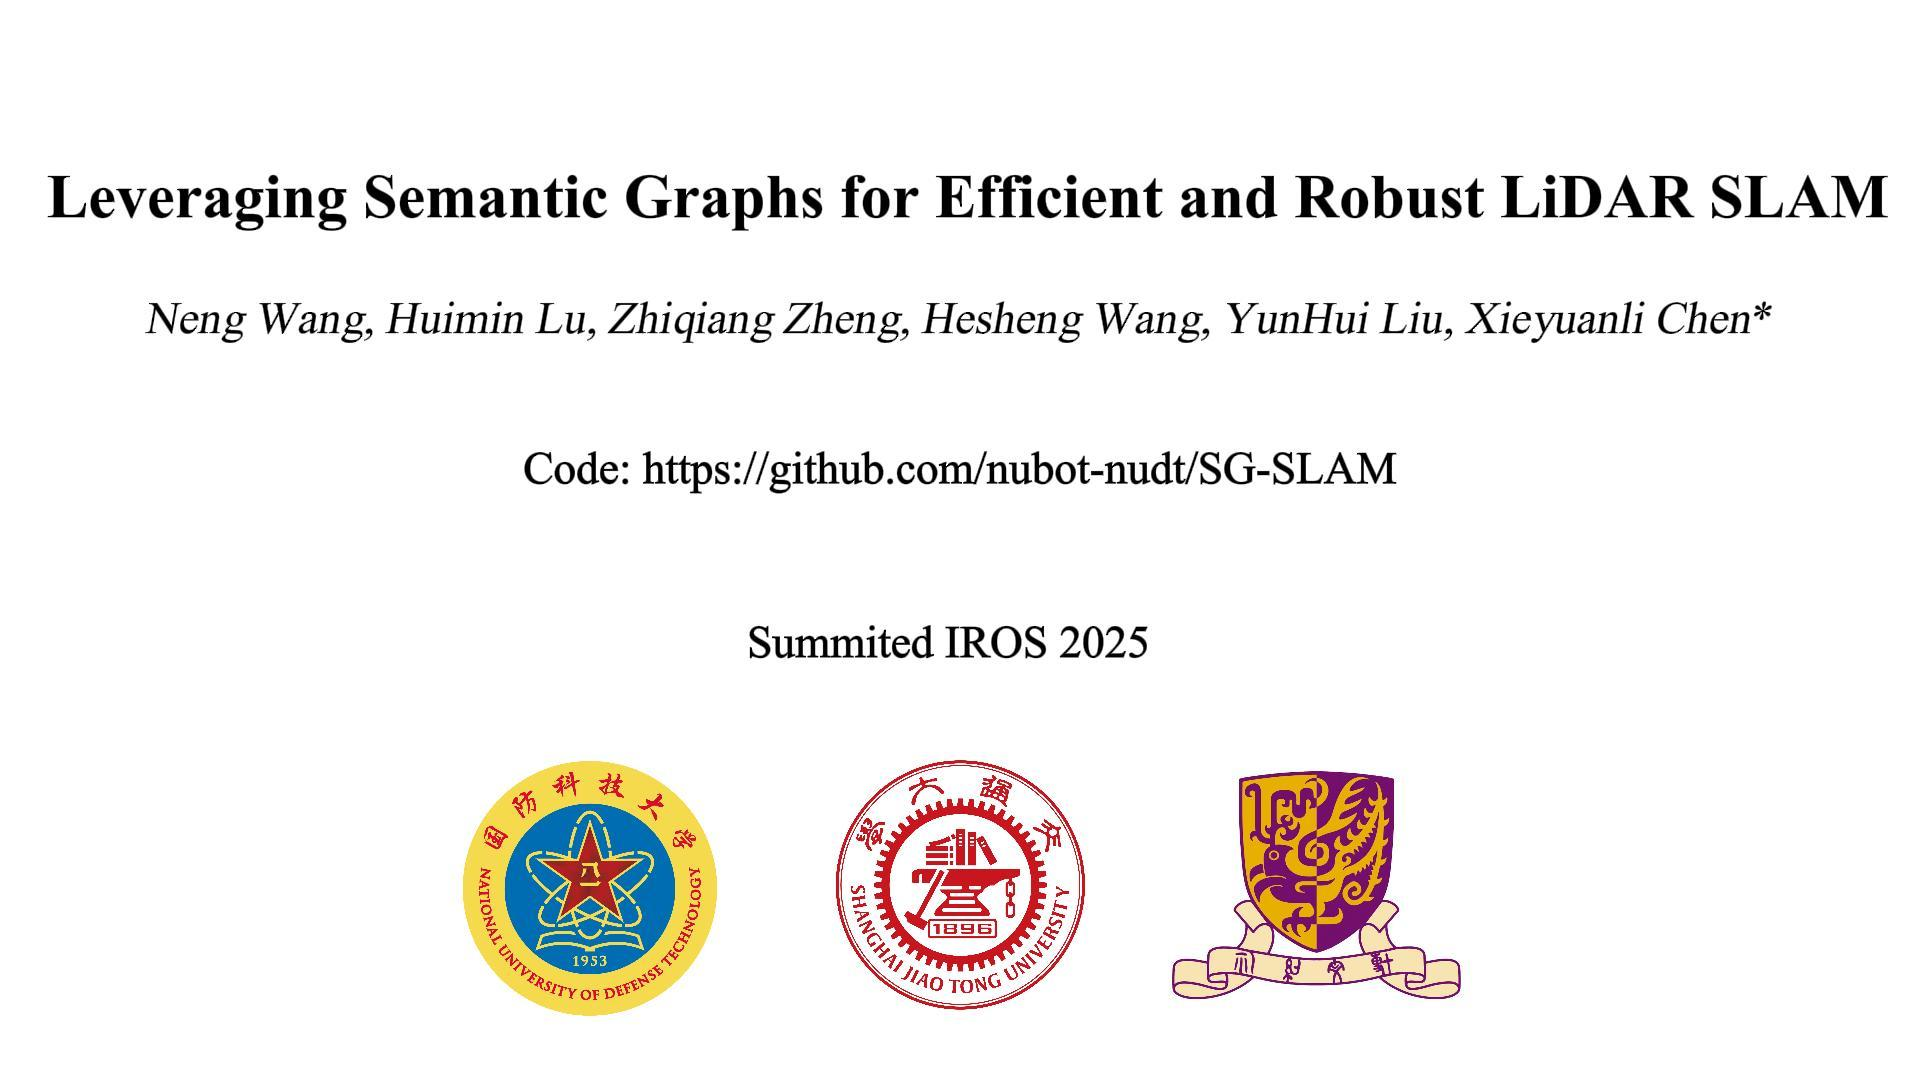
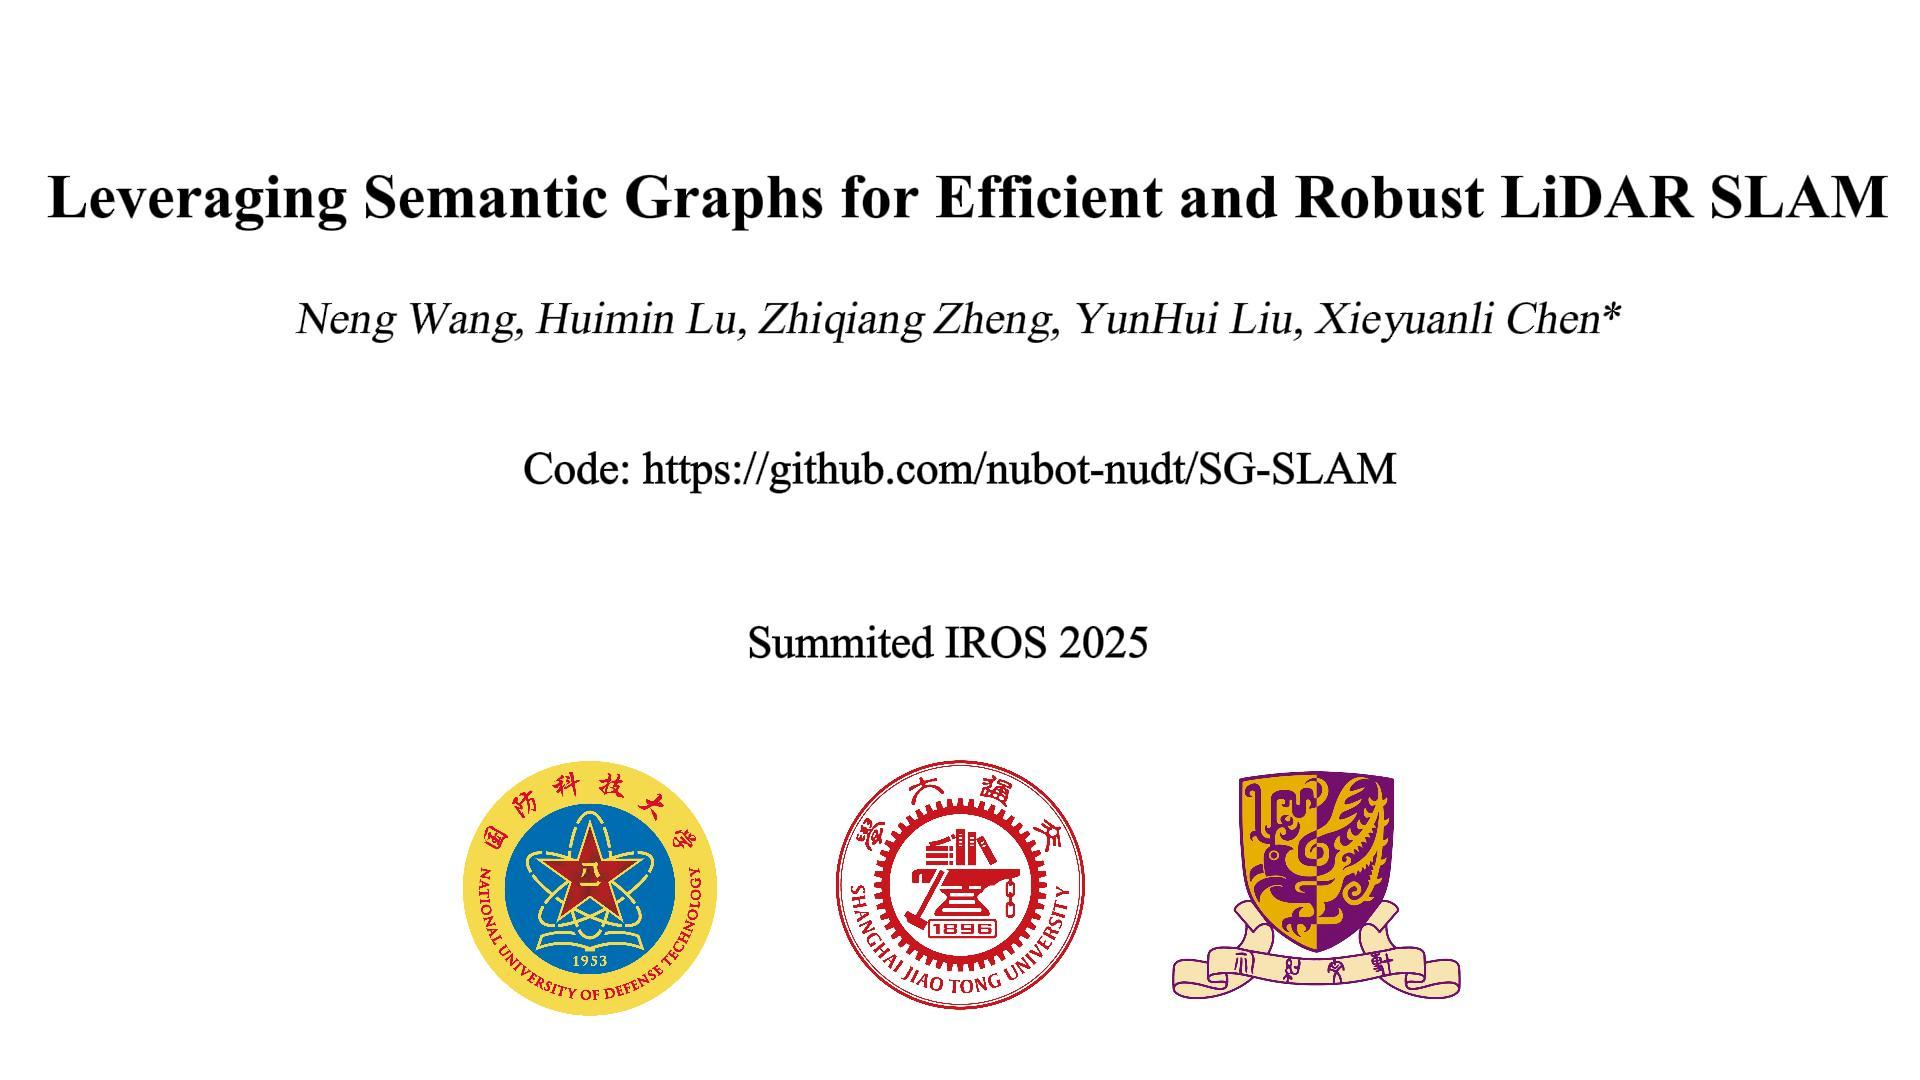
update

Changed region(s): [[0.0625, 0.275, 0.9375, 0.3361]]

diff --git a/README.md b/README.md
@@ -12,7 +12,7 @@ This repo contains the implementation of our paper
 
 > **Leveraging Semantic Graphs for Efficient and Robust LiDAR SLAM**
 >
-> [Neng Wang](https://github.com/neng-wang), [Huimin Lu](https://scholar.google.com.hk/citations?hl=en&user=cp-6u7wAAAAJ), [Zhiqiang Zheng](https://ieeexplore.ieee.org/author/37280344700), [Hesheng Wang](https://irmv.sjtu.edu.cn/wanghesheng), [Yun-Hui Liu](https://scholar.google.com.hk/citations?user=WzmDQTMAAAAJ&hl=en), [Xieyuanli Chen](https://github.com/Chen-Xieyuanli)
+> [Neng Wang](https://github.com/neng-wang), [Huimin Lu](https://scholar.google.com.hk/citations?hl=en&user=cp-6u7wAAAAJ), [Zhiqiang Zheng](https://ieeexplore.ieee.org/author/37280344700), [Yun-Hui Liu](https://scholar.google.com.hk/citations?user=WzmDQTMAAAAJ&hl=en), [Xieyuanli Chen](https://github.com/Chen-Xieyuanli)
 
 *SG-SLAM is a semantic graph enhanced SLAM framework. It is  robust for pose estimation and capable of constructing globally consistent semantic map.*
 
@@ -145,7 +145,7 @@ If you find our work helpful, please consider citing our paper:
 ```bib
  @inproceedings{wang2025sgslam,
         title     = {{Leveraging Semantic Graphs for Efficient and Robust LiDAR SLAM}},
-        author    = {Neng, Wang and Huimin, Lu and Zhiqiang, Zheng and Hesheng, Wang and Yun-Hui, Liu and Xieyuanli, Chen},
+        author    = {Neng, Wang and Huimin, Lu and Zhiqiang, Zheng and Yun-Hui, Liu and Xieyuanli, Chen},
         booktitle = {Proceedings of the IEEE/RSJ Int. Conf. on Intelligent Robots and Systems (IROS)},
         year      = {2025}
       }
